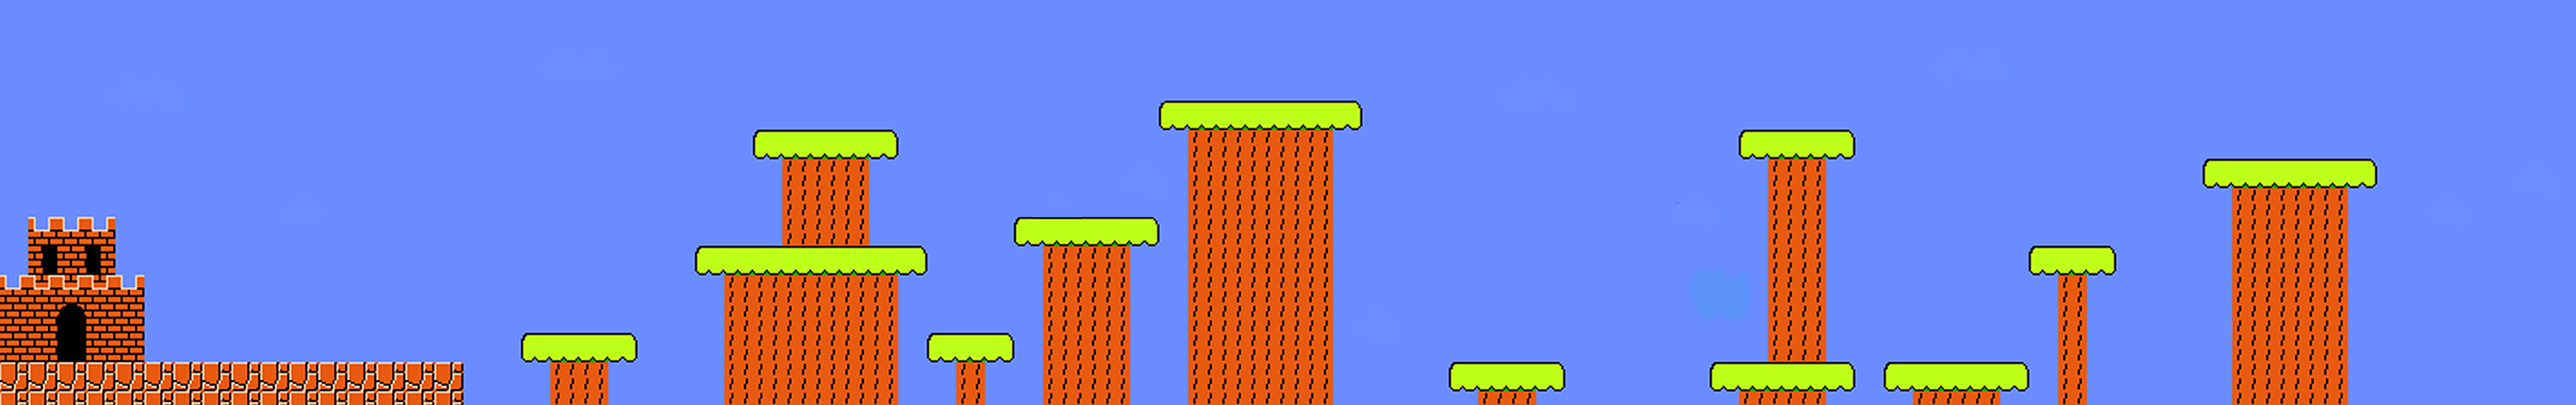
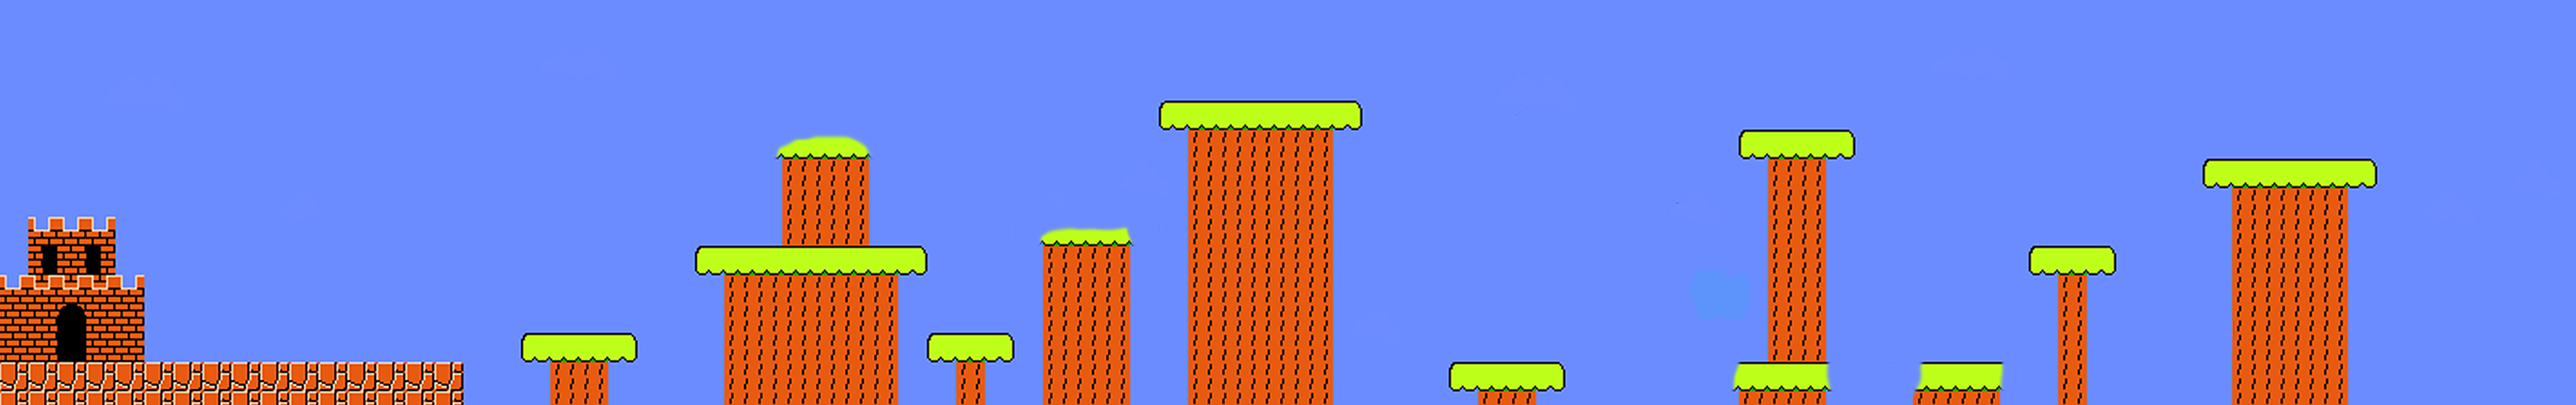
V0.24

diff --git a/Alfonsov2.py b/Alfonsov2.py
@@ -15,6 +15,8 @@ red      = (255,  0,  0)
 
 screen = pygame.display.set_mode((1024, 672))
 
+globalScore = 0
+
 class Alfonso(pygame.sprite.Sprite):
 
 	change_x = 0
@@ -22,6 +24,7 @@ class Alfonso(pygame.sprite.Sprite):
 
 	frame_since_collision = 0
 	frame_since_jump = 0
+	
 	
 	
 	def __init__(self):
@@ -343,6 +346,29 @@ class Block(pygame.sprite.Sprite):
 		self.rect.x = self.x
 		self.rect.y = self.y
 		
+class GrassTop(pygame.sprite.Sprite):
+	def __init__(self, x, y):
+		pygame.sprite.Sprite.__init__(self)
+		self.image = pygame.image.load("grassTop.png")
+		self.image.set_colorkey(white)
+		self.image = self.image.convert()
+		self.rect = self.image.get_rect()
+		self.x = x
+		self.y = y
+		self.dx = 10
+		self.mask = pygame.mask.from_surface(self.image)
+		self.reset()
+
+	def moveRight(self):
+		self.rect.left -= self.dx
+
+	def moveLeft(self):
+		self.rect.left += self.dx
+
+	def reset(self):
+		self.rect.x = self.x
+		self.rect.y = self.y
+		
 class Qbox(pygame.sprite.Sprite):
 	def __init__(self, x, y):
 		pygame.sprite.Sprite.__init__(self)
@@ -365,6 +391,48 @@ class Qbox(pygame.sprite.Sprite):
 	def reset(self):
 		self.rect.x = self.x
 		self.rect.y = self.y	
+		
+class GroundW2A(pygame.sprite.Sprite):
+	def __init__(self):
+		pygame.sprite.Sprite.__init__(self)
+		self.image = pygame.image.load("groundW2A.png")
+		self.image.set_colorkey(white)
+		self.image = self.image.convert()
+		self.rect = self.image.get_rect()
+		self.dx = 10
+		self.mask = pygame.mask.from_surface(self.image)
+		self.reset()
+
+	def moveRight(self):
+		self.rect.left -= self.dx
+
+	def moveLeft(self):
+		self.rect.left += self.dx
+
+	def reset(self):
+		self.rect.x = 0
+		self.rect.y = screen.get_height() - 94
+		
+class GroundW2B(pygame.sprite.Sprite):
+	def __init__(self):
+		pygame.sprite.Sprite.__init__(self)
+		self.image = pygame.image.load("groundW2A.png")
+		self.image.set_colorkey(white)
+		self.image = self.image.convert()
+		self.rect = self.image.get_rect()
+		self.dx = 10
+		self.mask = pygame.mask.from_surface(self.image)
+		self.reset()
+
+	def moveRight(self):
+		self.rect.left -= self.dx
+
+	def moveLeft(self):
+		self.rect.left += self.dx
+
+	def reset(self):
+		self.rect.x = 8221
+		self.rect.y = screen.get_height() - 96
 		
 def splashScreen():
 	screen = pygame.display.set_mode((1024, 672))
@@ -455,7 +523,6 @@ def level_1():
 	background.fill((0, 0, 0))
 	screen.blit(background, (0, 0))
 
-	score = 0
 	counter = 0
 	time = 180
 	flagcounter = 0
@@ -471,6 +538,7 @@ def level_1():
 	
 	scoreboard = Scoreboard() 
 	flagFloor = player.rect.y
+	flag.rect.x = 12642
 
 	for goomba in range(100):
 		goombax = random.randint(level1A.rect.left, (level1B.rect.right - 1278))
@@ -513,6 +581,7 @@ def level_1():
 		
 	collideFlag = False
 	Level_Finish_1 = False
+	timer = True
 		
 	clock = pygame.time.Clock()
 	keepGoing = True
@@ -520,7 +589,6 @@ def level_1():
 		clock.tick(30)
 		key = pygame.key.get_pressed()
 		jumping = False
-		
 		pygame.mouse.set_visible(False)
 		for event in pygame.event.get():
 			if event.type == pygame.QUIT:
@@ -597,14 +665,20 @@ def level_1():
 			if flagcounter == 1:
 				flagFloor = flagFloor + 1
 				flagcounter = 0
+				timer = False
+				if scoreboard.time != 0:
+					scoreboard.time -= 1
 				if player.rect.bottom >= 577:
 					flagFloor = 513
-					print(flagFloor)
-					print(player.rect.bottom)
-					player.moveRight()
-					if player.rect.left >= 600:
-						print("Hit Castle")
+					if scoreboard.time == 0:
+						print ("Switching")
+						globalScore = scoreboard.score
+						currentScreen = level_2()
 					
+		if timer == False:
+			timeMoney = scoreboard.time
+			timeMoney *= 10
+			scoreboard.score = scoreboard.score + timeMoney
 		
 		for goomba in goombas:
 			if goomba.rect.left >= level1A.rect.left:
@@ -631,8 +705,9 @@ def level_1():
 					level1B.reset()
 					flag.reset()
 	
-		counter = counter + 1
-		if counter == 30:
+		if timer == True:
+			counter = counter + 1
+		if timer == True and counter == 30:
 			time -= 1
 			counter = 0
 			scoreboard.time = time
@@ -669,21 +744,40 @@ def level_2():
 	background = pygame.Surface(screen.get_size())
 	background.fill((0, 0, 0))
 	screen.blit(background, (0, 0))
-	
-	score = 0
+
 	counter = 0
 	time = 180
 	
 	player = Alfonso()
 	level2A = World2A()
 	level2B = World2B()
-	scoreboard = Scoreboard()      
+	scoreboard = Scoreboard()
+	grassTop = []
+	flag = Flag()
+	groundW2A = GroundW2A()
+	
+	flagFloor = player.rect.y
+	scoreboard.score = globalScore	
+	flag.rect.x = 9664
+	
+	GTLpos = 0
+	for grastop in range(13):
+		# XY POS        0     1     2     3     4     5     6     7     8     9     10    11    12
+		grassTopx = [ 1129, 1675, 1999, 2251, 3180, 3821, 3788, 4172, 4431, 6221, 7147, 7372, 7759]
+		grassTopy = [  505,   59,  505,  257,  569,   59,  569,  569,  318,  441,  569,  318,  318]
+		grassTop.append(GrassTop(grassTopx[GTLpos], grassTopy[GTLpos]))
+		GTLpos += 1
 	
 	backgroundSprites = pygame.sprite.OrderedUpdates(level2B, level2A)
+	grassSprites = pygame.sprite.OrderedUpdates(grassTop)
 	playerSprites = pygame.sprite.OrderedUpdates(player)
 	scoreSprite = pygame.sprite.Group(scoreboard)
+	flagSprites = pygame.sprite.OrderedUpdates(flag)
+	groundSprites = pygame.sprite.OrderedUpdates(groundW2A)
 
 	level2B.rect.left = (level2A.rect.right)
+		
+	collideFlag = False
 	
 	clock = pygame.time.Clock()
 	keepGoing = True
@@ -693,6 +787,9 @@ def level_2():
 		jumping = False
 		collideLeft = False
 		collideRight = False
+		player.floor = 672
+		print (flag.rect.x)
+		print (flag.rect.y)
 		pygame.mouse.set_visible(False)
 		for event in pygame.event.get():
 			if event.type == pygame.QUIT:
@@ -704,20 +801,50 @@ def level_2():
 				
 		if key[pygame.K_LEFT]:
 			player.turn = 0
-			player.image = pygame.image.load("walk L000.png")
-			if collideLeft == False:
+			if collideFlag == False:
 				if not level2A.rect.left == 0:
+					player.moving = True
 					level2A.moveLeft()
 					level2B.moveLeft()
+					flag.moveLeft()
+					groundW2A.moveLeft()
+					for index in range(13):
+						grassTop[index].moveLeft()
+
 
 		if key[pygame.K_RIGHT]:
 			player.turn = 1
-			player.image = pygame.image.load("walk R000.png")
-			if collideRight == False:
+			if collideFlag == False:
 				if level2B.rect.right > 1024:
+					player.moving = True
 					level2A.moveRight()
-					level2B.moveRight()			
+					level2B.moveRight()
+					flag.moveRight()
+					groundW2A.moveRight()
+					for index in range(13):
+						grassTop[index].moveRight()
 						
+		flagCollide = pygame.sprite.spritecollide(player, flagSprites, False, pygame.sprite.collide_mask)
+		groundCollide = pygame.sprite.spritecollide(player, groundSprites, False, pygame.sprite.collide_mask)
+		grassCollide = pygame.sprite.spritecollide(player, grassSprites, False, pygame.sprite.collide_mask)
+		
+		if 	flagCollide:
+			player.floor = flagFloor
+			collideFlag = True
+			Level_Finish_1 = True
+			flagcounter = flagcounter + 1
+			
+		if groundCollide:	
+			for theGround in groundCollide:
+				if collide_mask(player, theGround):
+					player.floor = (theGround.rect.top - 64)
+					
+		if grassCollide:	
+			for theGrass in grassCollide:
+				if collide_mask(player, theGrass):
+					player.floor = (theGrass.rect.top - 64)
+			
+			
 		counter = counter + 1
 		if counter == 30:
 			time -= 1
@@ -727,10 +854,16 @@ def level_2():
 		player.calc_grav()
 			
 		playerSprites.update()
+		grassSprites.update()
 		scoreSprite.update()
 		backgroundSprites.update()
+		flagSprites.update()
+		groundSprites.update()
 
 		backgroundSprites.draw(screen)
+		grassSprites.draw(screen)
+		flagSprites.draw(screen)
+		groundSprites.draw(screen)
 		scoreSprite.draw(screen)
 		playerSprites.draw(screen)
 
